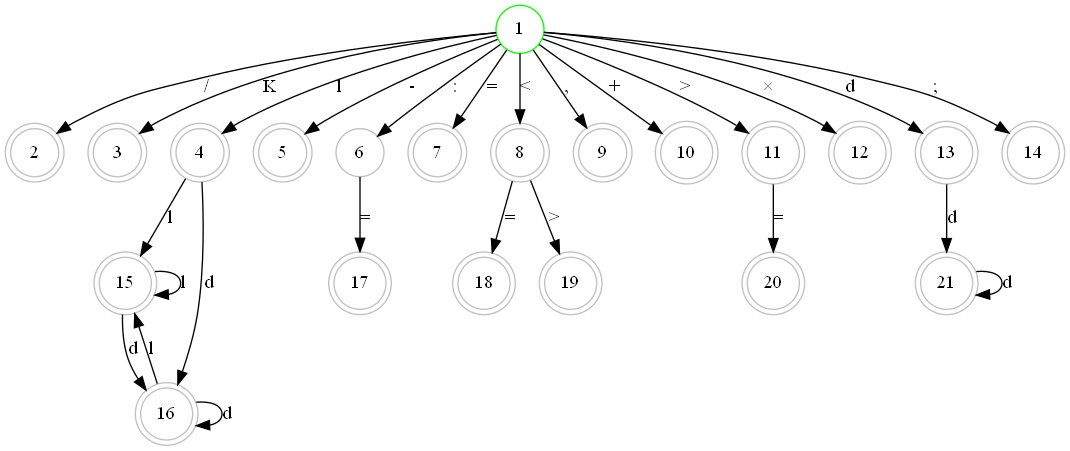
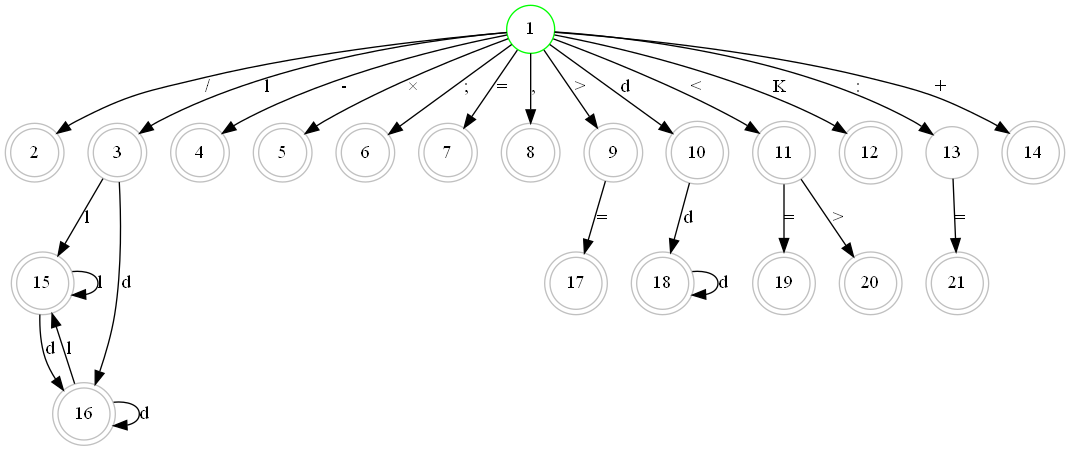
update12.27

diff --git a/tk.py b/tk.py
@@ -41,64 +41,6 @@ class TkDemo():
         title = Label(master, text='编译原理图形化展示', font='15', bg='white', fg='red')
         title.pack()
 
-        # # 问题1放在frame1中 (Frame)
-        # frame1 = Frame(master)
-        # frame1.pack(fill=X)
-        # # 问题
-        # label1 = Label(frame1, text='1、您的花名：   ')
-        # label1.grid(row=1, column=0)
-        # # 输入框 (Entry)
-        # self.name = StringVar()
-        # entryname = Entry(frame1, textvariable=self.name)
-        # entryname.grid(row=1, column=1)
-        # # 按钮  (Button)
-        # getname = Button(frame1, text='点击确认', command=self.getname)
-        # getname.grid(row=1, column=3)
-
-        # # 问题2放在frame2中
-        # frame2 = Frame(master)
-        # frame2.pack(fill=X)
-        # # 问题
-        # label2 = Label(frame2, text='2、您的性别：   ')
-        # label2.grid(row=1, column=0)
-        # # 选择按钮 (Radiobutton)
-        # self.sex = StringVar()
-        # sex_male = Radiobutton(frame2, text='男', fg='blue', variable=self.sex, value='男', command=self.getsex)
-        # sex_male.grid(row=1, column=2)
-        # sex_female = Radiobutton(frame2, text='女', fg='red', variable=self.sex, value='女', command=self.getsex)
-        # sex_female.grid(row=1, column=4)
-
-        # # 问题3放在frame3中
-        # frame3 = Frame(master)
-        # frame3.pack(fill=X)
-        # # 问题
-        # label2 = Label(frame3, text='3、您的年龄：   ')
-        # label2.grid(row=1, column=0)
-        # # 滑动条 (Scale)
-        # self.age = Scale(frame3, from_=0, to=100, orient=HORIZONTAL, resolution=1)   # 默认垂直
-        # self.age.grid(row=1, column=1)
-        # # 按钮  (Button)
-        # getage = Button(frame3, text='点击确认', command=self.getage)
-        # getage.grid(row=1, column=2)
-
-        # # 问题4放在frame4中
-        # frame4 = Frame(master)
-        # frame4.pack(fill=X)
-        # # 问题
-        # label4 = Label(frame4, text='4、请删除您不会的编程语言：   ')
-        # label4.grid(row=1, column=0)
-        # # 列表  (Listbox)
-        # self.listbox = Listbox(frame4)
-        # self.listbox.grid(row=1, column=1)
-        # for item in ["C", "C++", 'JAVA', 'Python', 'R', 'SQL', 'JS']:
-        #     self.listbox.insert(END, item)
-        # # 删除按钮
-        # DELE = Button(frame4, text="删除", command=lambda listbox=self.listbox: listbox.delete(ANCHOR))
-        # DELE.grid(row=1, column=2)
-        # # 确定按钮
-        # language = Button(frame4, text="确定", command=self.getlanguage)
-        # language.grid(row=2, column=1)
-
         # 问题5放在frame5中
         frame1 = Frame(master)
         frame1.pack(fill=X)
@@ -111,18 +53,9 @@ class TkDemo():
         self.pattern = StringVar()
         # 图案选择按钮
         btRectangle = Button(frame1, text = "确定", command = self.displayRect)
-        # btOval = Button(frame5, text="椭 圆", command=self.displayOval)
-        # btArc = Button(frame5, text = "圆 弧", command = self.displayArc)
-        # btPolygon = Button(frame5, text="多边形", command=self.displayPolygon)
-        # btLine = Button(frame5, text=" 线 ", command=self.displayLine)
-        # btString = Button(frame5, text="确定", command=self.displayString)
+
         btClear = Button(frame1, text="清 空", command=self.clearCanvas)
         btRectangle.grid(row = 2, column = 6)
-        # btOval.grid(row=2, column=2)
-        # btArc.grid(row=2, column=3)
-        # btPolygon.grid(row=2, column=4)
-        # btLine.grid(row=2, column=5)
-        # btString.grid(row=2, column=1)
         btClear.grid(row=2, column=7)
 
 
@@ -151,96 +84,6 @@ class TkDemo():
         btRectangle.grid(row = 6, column = 6)
 
         btClear.grid(row=6, column=7)
-        
-       
-
-        
-
-
-        # frame3 = Frame(master)
-        # frame3.pack(fill=X)
-        # # 问题
-        # label3 = Label(frame3, text='DFA化简')
-        # label3.grid(row=3, column=0)
-        # # 画板  (Canvas)
-        # self.canvas = Canvas(frame3, width=200, height=200, bg="White")
-        # self.canvas.grid(row=3, column=1)
-        # self.pattern = StringVar()
-        # # 图案选择按钮
-        # btRectangle = Button(frame3, text = "确定", command = self.displayRect)
-        # # btOval = Button(frame5, text="椭 圆", command=self.displayOval)
-        # # btArc = Button(frame5, text = "圆 弧", command = self.displayArc)
-        # # btPolygon = Button(frame5, text="多边形", command=self.displayPolygon)
-        # # btLine = Button(frame5, text=" 线 ", command=self.displayLine)
-        # # btString = Button(frame5, text="确定", command=self.displayString)
-        # btClear = Button(frame3, text="清 空", command=self.clearCanvas)
-        # btRectangle.grid(row = 2, column = 6)
-        # # btOval.grid(row=2, column=2)
-        # # btArc.grid(row=2, column=3)
-        # # btPolygon.grid(row=2, column=4)
-        # # btLine.grid(row=2, column=5)
-        # # btString.grid(row=2, column=1)
-        # btClear.grid(row=2, column=7)
-
-        # # 问题6放在frame6中
-        # frame6 = Frame(master)
-        # frame6.pack(fill=X)
-        # # 问题
-        # label6 = Label(frame6, text='6、您喜欢的NBA球星号：   ')
-        # label6.grid(row=1, column=0)
-        # # 滚轮 (Scrollbar)
-        # scrollbar = Scrollbar(frame6)
-        # scrollbar.grid(row=1, column=2)
-        # # 列表
-        # self.listbox2 = Listbox(frame6,height=5, yscrollcommand=scrollbar.set)
-        # for i in range(99):
-        #     self.listbox2.insert(END, str(i))
-        # self.listbox2.grid(row=1, column=1)
-        # scrollbar.config(command=self.listbox2.yview)
-        # # 确定按钮
-        # star = Button(frame6, text='确定', command=self.getstar)
-        # star.grid(row=2, column=1)
-
-        # # 问题7放在frame7中
-        # frame7 = Frame(master)
-        # frame7.pack(fill=X)
-        # # 问题
-        # label7 = Label(frame7, text='7、您最喜欢的数字是：   ')
-        # label7.grid(row=1, column=0)
-        # # (Spinbox)
-        # self.number = Spinbox(frame7, from_=0, to=10)
-        # self.number.grid(row=1, column=1)
-        # # 确定按钮
-        # number = Button(frame7, text='确定', command=self.getnumber)
-        # number.grid(row=1, column=2)
-
-        # # 空格
-        # separator = Frame(master, height=30, bg='black', relief=SUNKEN)
-        # separator.pack(fill=X, padx=5, pady=5)
-
-        # # frame8
-        # frame8 = Frame(master)
-        # frame8.pack()
-        # self.agree = StringVar()
-        # # 勾择按钮（Checkbutton）
-        # agree = Checkbutton(frame8, text="我确定此调查问卷信息准确无误", variable=self.agree, onvalue='确定', offvalue='不确定', command=self.getagree)  # 产生选择按钮
-        # agree.grid()
-
-        # # frame9
-        # frame9 = Frame(master)
-        # frame9.pack()
-        # submit = Button(frame9, text='提交', command=self.allsubmit)
-        # submit.grid()
-
-        # # frame10
-        # frame10 = Frame(master)
-        # frame10.pack()
-        # # 容器框 （LabelFrame）
-        # self.group = LabelFrame(frame10, text="特别鸣谢", padx=5, pady=5)
-        # self.group.grid()
-        # w = Label(self.group, text='本学习项目由衷感谢http://effbot.org/tkinterbook')
-        # w.pack()
-
         master.mainloop()
 
   # 属性
@@ -370,22 +213,7 @@ class TkDemo():
         self.canvas3.create_image(100,150,image = im3,tags = "img")  
         # self.canvas.create_rectangle(10, 10, 190, 90, tags = "rect")
         self.pattern = '长方形'
-    # def displayOval(self):
-    #     self.canvas.create_oval(10, 10, 300, 300, tags = "oval", fill = "red")
-    #     self.pattern = '椭圆'
-    # def displayArc(self):
-    #     self.canvas.create_arc(10, 10, 190, 90, start = 0, extent = 90, width = 8, fill = "red", tags = "arc")
-    #     self.pattern = '圆弧'
-    # def displayPolygon(self):
-    #     self.canvas.create_polygon(10, 10, 190, 90, 30, 50, tags = "polygon")
-    #     self.pattern = '多边形'
-    # def displayLine(self):
-    #     self.canvas.create_line(10, 10, 190, 90, fill = 'red', tags = "line")
-    #     self.canvas.create_line(10, 90, 190, 10, width = 9, arrow = "last", activefill = "blue", tags = "line")
-    #     self.pattern = '线'
-    # def displayString(self):
-    #     self.canvas.create_text(60, 40, text = "您真棒！！！", font = "Tine 10 bold underline", tags = "string")
-    #     print(self.pattern)
+  
     def clearCanvas(self):
         self.canvas.delete("img", "oval", "arc", "polygon", "line", "string")
     def clearCanvas2(self):

diff --git a/Lex.py b/Lex.py
@@ -99,8 +99,13 @@ def readProgram(program):
     iteration=iter(range(len(program)))
 
     for i in iteration:
-        if(i+1<len(program) and program[i+1]!=' ' and program[i] not in signs and program[i]!=' '):
-            current_word+=program[i]
+        if(program[i] not in signs and program[i]!=' '):
+            if(i+1<len(program) and program[i+1]!=' '):
+                current_word+=program[i]
+            elif(i+1==len(program)):
+                current_word+=program[i]
+                words.append(current_word)
+                
 
         elif(program[i] in signs):
             words.append(current_word)
@@ -122,7 +127,6 @@ def readProgram(program):
                 current_word+=program[i]
                 words.append(current_word)
                 current_word=''
-
     return words
 
 def output(words,DFA):
@@ -134,7 +138,9 @@ def output(words,DFA):
             input='K'
             res=DFA.DFACode(input,word)
         elif(word in signs):
-                res=DFA.DFACode(word)
+            if(word =='*'):
+                word ='×'
+            res=DFA.DFACode(word)
         else:
             exp=[]
             for i in word:
@@ -185,10 +191,6 @@ Result.pack()
 
 
 window.mainloop()
-
-
-
-
 
 
 #program="VAR a,b,c;IF a>b c=a;a=b;b=a; a=a+b; b=a-b; WHILE a>0 a=a-1; "    

diff --git a/Exp2NFA.py b/Exp2NFA.py
@@ -279,7 +279,7 @@ class ExpToNFA:
         for i in range(len(model.transitions)):
             n1,sym,n2=str(model.transitions[i][0]),model.transitions[i][1],str(model.transitions[i][2])
             nfa.edge(n1,n2,label=sym)
-        model.print_matrix()
+        # model.print_matrix()
         model.check_end()
         return model.current_state,model.transitions,model.final_states
             

diff --git a/minimizer.py b/minimizer.py
@@ -195,6 +195,8 @@ class DFA:
             if(word!='' and 'K' in variables):
                 res='<'+'Keyword,'+word+'>'
             elif(word==''):
+                if(variables=='×'):
+                    variables='*'
                 res='<'+variables+'>'
             else:
                 res = "<" + "Var," + word + ">"
